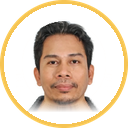
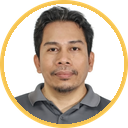
Top bar: Butch's new photo centered in the ring; name and photo 10% smaller
Photo 34px -> 31px, name 1.2rem -> 1.08rem. Replaces the earlier zoomed-out
version of the old photo.

Claude-Session: https://claude.ai/code/session_01Ro3JDdmiTgga8a6RxSm2if

diff --git a/style.py b/style.py
@@ -50,12 +50,12 @@ img { max-width: 100%; height: auto; }
 header.site { background: var(--navy-deep); position: sticky; top: env(safe-area-inset-top, 0px); z-index: 5; }
 header.site::after { content: ""; display: block; height: 3px; background: var(--rainbow); }
 header.site .wrap { display: flex; align-items: center; justify-content: space-between; gap: 12px; min-height: 66px; flex-wrap: wrap; }
-.brand { font: 700 1.2rem var(--font-display); color: var(--on-navy); letter-spacing: -0.01em; }
+.brand { font: 700 1.08rem var(--font-display); color: var(--on-navy); letter-spacing: -0.01em; }
 .brand b { color: var(--gold); font-weight: inherit; }
 .brand:hover { text-decoration: none; }
 .brand { display: inline-flex; align-items: center; gap: 10px; white-space: nowrap; }
-.brand .avatar { width: 34px; height: 34px; border-radius: 50%; flex: none; display: block; box-sizing: border-box; padding: 3px;
-                 /* ALTOS colour ring around the photo, as on share option 1; the overall size stays 34px */
+.brand .avatar { width: 31px; height: 31px; border-radius: 50%; flex: none; display: block; box-sizing: border-box; padding: 3px;
+                 /* ALTOS colour ring around the photo, as on share option 1; 31px overall (10% smaller than 34px) */
                  background: radial-gradient(closest-side, var(--navy-deep) 86%, transparent 87%),
                              conic-gradient(var(--gold) 0 72deg, var(--blue) 0 144deg, var(--green) 0 216deg, var(--coral) 0 288deg, var(--violet) 0 360deg); }
 nav { display: flex; gap: 4px; flex-wrap: wrap; }

diff --git a/pages.py b/pages.py
@@ -125,7 +125,7 @@ def layout(title, active, body, description=None, url=None, og_type="website"):
         t.body(
             t.header(
                 t.div(
-                    t.a(t.img(src=asset_url("avatar.png"), alt="", width="34", height="34", class_="avatar"), t.span(SITE["short_name"].split()[0], " ", t.b(SITE["short_name"].split()[1])), href="/", class_="brand"),
+                    t.a(t.img(src=asset_url("avatar.png"), alt="", width="31", height="31", class_="avatar"), t.span(SITE["short_name"].split()[0], " ", t.b(SITE["short_name"].split()[1])), href="/", class_="brand"),
                     t.nav([t.a(label, href=href, class_="active" if href == active else None) for href, label in NAV]),
                     t.button(FULLSCREEN_ICON, type="button", id="fs", class_="fs", title="Full screen", aria_label="Full screen", aria_pressed="false", hidden=True),
                     class_="wrap",
